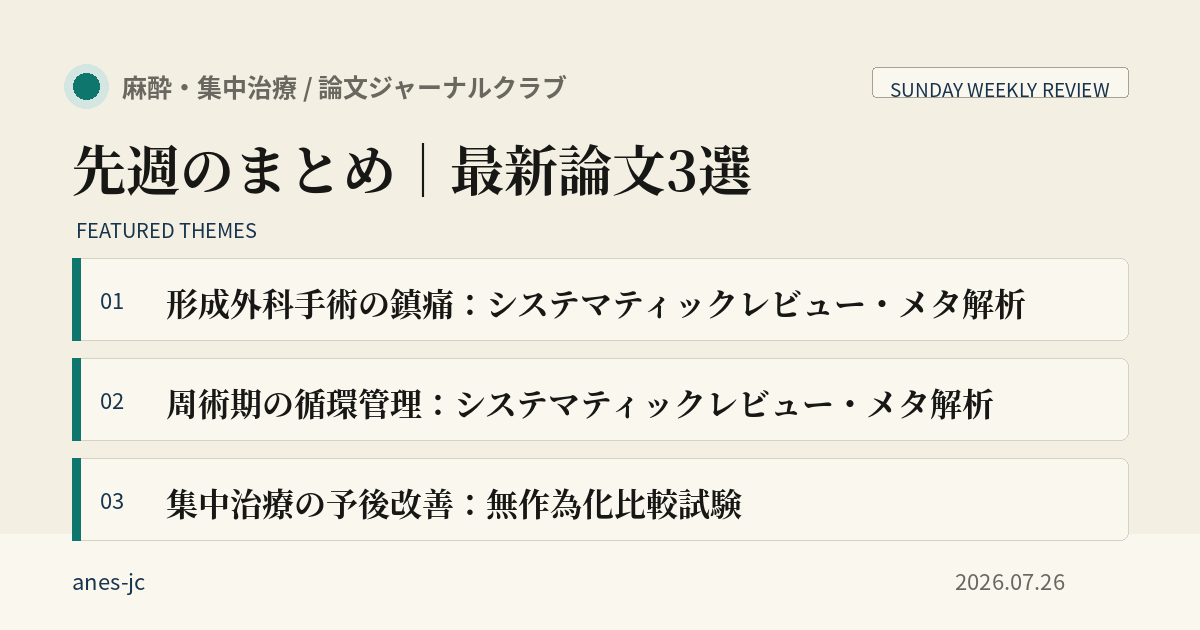
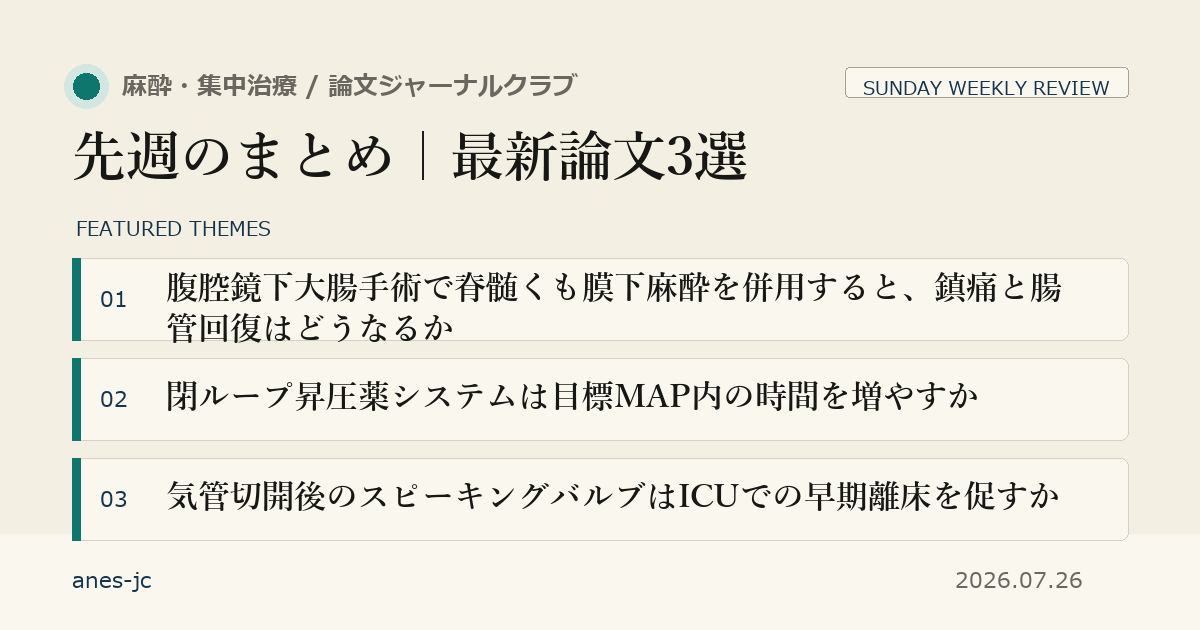
Fix July 26 Sunday paper summaries

diff --git a/articles/latest-papers-2026-07-26.html b/articles/latest-papers-2026-07-26.html
@@ -22,7 +22,7 @@
     "https://anes-jc.github.io/assets/og/latest-papers-2026-07-26.png?v=2026-07-26"
   ],
   "datePublished": "2026-07-26T00:00:00+09:00",
-  "dateModified": "2026-07-26T00:00:00+09:00",
+  "dateModified": "2026-07-27T00:00:00+09:00",
   "author": {
     "@type": "Organization",
     "name": "anes-jc"
@@ -43,31 +43,31 @@
 <script src="../assets/analytics.js" defer></script>
 </head><body><header class="bar"><div class="bar-in"><a class="brand" href="../index.html"><span class="dot"></span>麻酔・集中治療 / 論文ジャーナルクラブ</a><div class="bar-actions"><a class="back" href="../articles.html">← 記事一覧</a></div></div></header><div class="wrap">
 <div class="ahead"><div class="kicker"><a class="pill cls" href="../tags.html?tag=先週のまとめ">SUN · 先週のまとめ</a><a class="pill" href="../tags.html?tag=最新論文">最新論文</a></div>
-<h1><span class="title-part">先週のまとめ</span><span class="title-sep">｜</span><span class="title-part title-tail">最新論文3選</span></h1><div class="cite">2026-07-26 公開<br>対象期間: 2026-07-20 - 2026-07-26</div></div>
+<h1><span class="title-part">先週のまとめ</span><span class="title-sep">｜</span><span class="title-part title-tail">最新論文3選</span></h1><div class="cite">2026-07-26 公開<br>2026-07-27 内容修正<br>対象期間: 2026-07-20 - 2026-07-26</div></div>
 <section class="sec"><div class="sechd"><h2>先週の記事一覧</h2></div><ul class="site-list">
     <li><a href="../articles/process-early-septic-shock.html">敗血症性ショックにEGDTは必要か — ProCESS試験と信頼区間で読む陰性RCT</a><span>2026.07.24</span></li>
     <li><a href="../articles/ards-renin-survival.html">ARDS患者のレニンは1年死亡と関連するか — 反復測定と予後モデルの落とし穴</a><span>2026.07.22</span></li>
     <li><a href="../articles/unilateral-spinal-meta.html">片側脊髄くも膜下麻酔は低血圧を減らすか — メタ解析で読む平均差とリスク比</a><span>2026.07.20</span></li></ul></section>
 <section class="sec"><div class="sechd"><h2>最新論文3選</h2></div><article class="paper-card">
-      <h2>形成外科手術の鎮痛：システマティックレビュー・メタ解析</h2>
-      <p class="design">システマティックレビュー・メタ解析</p>
-      <p class="summary"><span>日本語メモ</span>形成外科手術の鎮痛を扱ったシステマティックレビュー・メタ解析です。自動生成記事ではタイトル・抄録・書誌情報の範囲で紹介しているため、主要評価項目と数値結果はリンク先の抄録・原文で確認してください。</p>
+      <h2>腹腔鏡下大腸手術で脊髄くも膜下麻酔を併用すると、鎮痛と腸管回復はどうなるか</h2>
+      <p class="design">前向きコホート＋システマティックレビュー・メタ解析</p>
+      <p class="summary"><span>日本語メモ</span>前向きコホート242例と無作為化試験5件・338例のメタ解析です。全身麻酔への脊髄くも膜下麻酔の追加は、早期疼痛と術後24時間のオピオイド使用を減らしましたが、排ガス・排便・経口摂取までの時間、遷延性術後イレウス、在院日数は改善しませんでした。鎮痛補助としては有望でも、腸管回復を早める手段とはいえない結果です。</p>
       <h3>Spinal anesthesia in laparoscopic colorectal surgery: analgesia and recovery outcomes - a cohort study and systematic review of randomized controlled studies.</h3>
       <p class="meta">Langenbeck&#39;s archives of surgery / 2026-07-20</p>
       <p class="source-id">DOI: 10.1007/s00423-026-04152-w</p>
       <a class="source" href="https://doi.org/10.1007%2Fs00423-026-04152-w">抄録・原文を見る →</a>
     </article><article class="paper-card">
-      <h2>周術期の循環管理：システマティックレビュー・メタ解析</h2>
+      <h2>閉ループ昇圧薬システムは目標MAP内の時間を増やすか</h2>
       <p class="design">システマティックレビュー・メタ解析</p>
-      <p class="summary"><span>日本語メモ</span>周術期の循環管理を扱ったシステマティックレビュー・メタ解析です。自動生成記事ではタイトル・抄録・書誌情報の範囲で紹介しているため、主要評価項目と数値結果はリンク先の抄録・原文で確認してください。</p>
+      <p class="summary"><span>日本語メモ</span>無作為化試験6件・215例を対象とし、うち周術期の5試験をメタ解析しています。手動調整と比べて、閉ループ制御は平均動脈圧（MAP）が目標範囲内にある時間を33.94パーセントポイント増やし、低血圧の時間を18.24パーセントポイント減らしました。一方で高血圧、ノルアドレナリン総量、有害事象には明確な差がなく、研究間の異質性と小規模標本、患者中心アウトカムが未確立な点に注意が必要です。</p>
       <h3>Closed-loop vasopressor systems for hemodynamic control in perioperative and critical care settings: a systematic review and meta-analysis.</h3>
       <p class="meta">Journal of clinical monitoring and computing / 2026-07-22</p>
       <p class="source-id">DOI: 10.1007/s10877-026-01463-7</p>
       <a class="source" href="https://doi.org/10.1007%2Fs10877-026-01463-7">抄録・原文を見る →</a>
     </article><article class="paper-card">
-      <h2>集中治療の予後改善：無作為化比較試験</h2>
-      <p class="design">無作為化比較試験</p>
-      <p class="summary"><span>日本語メモ</span>集中治療の予後改善を扱った無作為化比較試験です。自動生成記事ではタイトル・抄録・書誌情報の範囲で紹介しているため、主要評価項目と数値結果はリンク先の抄録・原文で確認してください。</p>
+      <h2>気管切開後のスピーキングバルブはICUでの早期離床を促すか</h2>
+      <p class="design">前向き無作為化比較試験</p>
+      <p class="summary"><span>日本語メモ</span>気管切開後のICU患者90例を、標準リハビリテーションにスピーキングバルブを追加する群47例と対照群43例に割り付けた試験です。21日目のCPAx（ICUでの身体機能評価）は中央値28対22で追加群が高く、嚥下機能と生活の質も改善しました。単施設・小規模試験であり、在院日数などへの効果は今後の検証が必要です。</p>
       <h3>Effect of speaking valves on early mobilization of patients in intensive care units following tracheostomy: a prospective randomized controlled trial.</h3>
       <p class="meta">Brazilian journal of otorhinolaryngology / 2026-07-22</p>
       <p class="source-id">DOI: 10.1016/j.bjorl.2026.101853</p>
